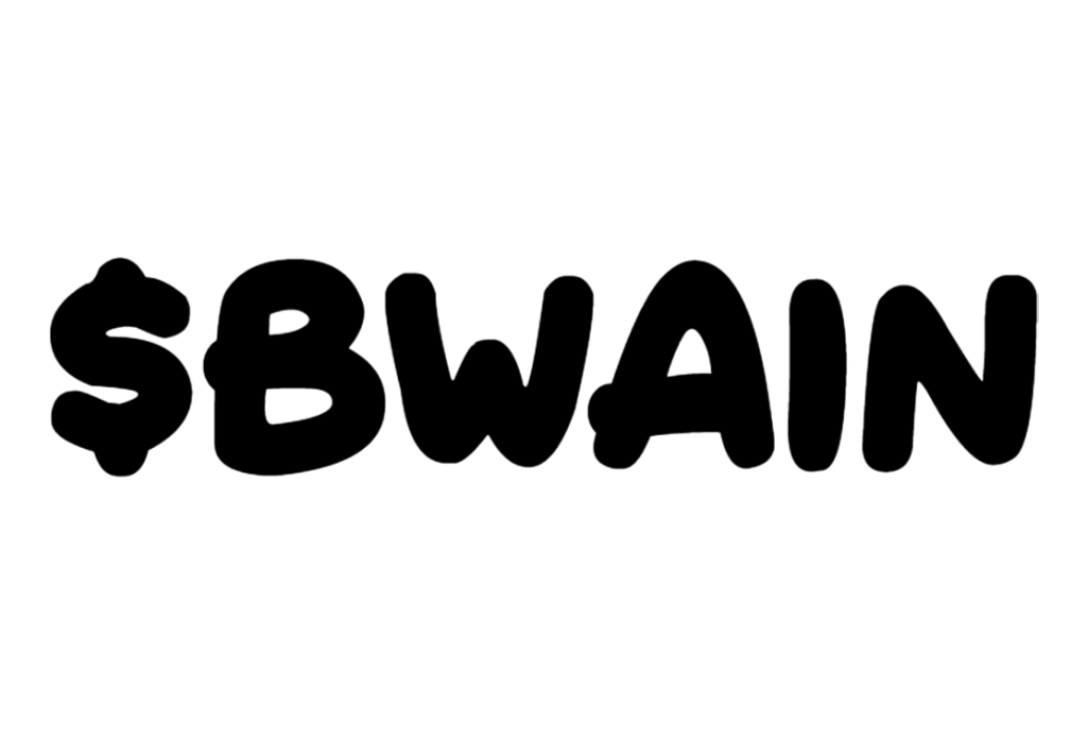
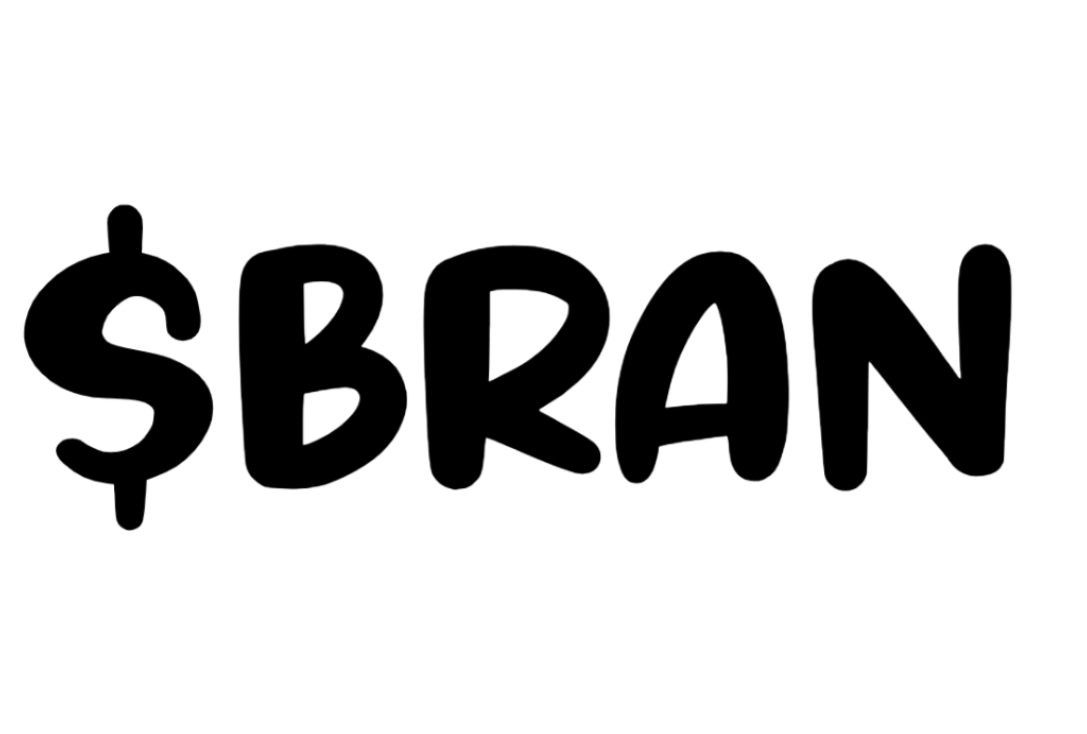
1

Changed region(s): [[0.0, 0.2698, 0.9715, 0.7193]]

diff --git a/index.html b/index.html
@@ -9,8 +9,8 @@
 <meta http-equiv="Expires" content="0" />
     <link rel="icon" href="./assets/logo1.png" type="image/png">
     <link rel="apple-touch-icon" href="./assets/logo1.png">
-    <title>BWAIN</title>
-    <meta name="description" content="BWAIN is a cheeky, sarcastic genius representing your inner thoughts on the Solana network." />
+    <title>BRAN</title>
+    <meta name="description" content="BRAN is a cheeky, sarcastic genius representing your inner thoughts on the Solana network." />
   
     <link rel="preconnect" href="https://fonts.googleapis.com">
     <link rel="preconnect" href="https://fonts.gstatic.com" crossorigin>
@@ -25,48 +25,48 @@
       <div class="ticker-wrapper">
         <div class="ticker">
             <div class="ticker-move">
-                <span class="text">5jjY...<span style="color:#ff7bd3; font-weight: bold; text-transform: uppercase;">jump</span></span>
-                <span class="text">5jjY...<span style="color:#ff7bd3; font-weight: bold; text-transform: uppercase;">jump</span></span>
-                <span class="text">5jjY...<span style="color:#ff7bd3; font-weight: bold; text-transform: uppercase;">jump</span></span>
-                <span class="text">5jjY...<span style="color:#ff7bd3; font-weight: bold; text-transform: uppercase;">jump</span></span>
-                <span class="text">5jjY...<span style="color:#ff7bd3; font-weight: bold; text-transform: uppercase;">jump</span></span>
-                <span class="text">5jjY...<span style="color:#ff7bd3; font-weight: bold; text-transform: uppercase;">jump</span></span>
-                <span class="text">5jjY...<span style="color:#ff7bd3; font-weight: bold; text-transform: uppercase;">jump</span></span>
-                <span class="text">5jjY...<span style="color:#ff7bd3; font-weight: bold; text-transform: uppercase;">jump</span></span>
-                <span class="text">5jjY...<span style="color:#ff7bd3; font-weight: bold; text-transform: uppercase;">jump</span></span>
-                <span class="text">5jjY...<span style="color:#ff7bd3; font-weight: bold; text-transform: uppercase;">jump</span></span>
-                <span class="text">5jjY...<span style="color:#ff7bd3; font-weight: bold; text-transform: uppercase;">jump</span></span>
-                <span class="text">5jjY...<span style="color:#ff7bd3; font-weight: bold; text-transform: uppercase;">jump</span></span>
-                <span class="text">5jjY...<span style="color:#ff7bd3; font-weight: bold; text-transform: uppercase;">jump</span></span>
-                <span class="text">5jjY...<span style="color:#ff7bd3; font-weight: bold; text-transform: uppercase;">jump</span></span>
-                <span class="text">5jjY...<span style="color:#ff7bd3; font-weight: bold; text-transform: uppercase;">jump</span></span>
-                <span class="text">5jjY...<span style="color:#ff7bd3; font-weight: bold; text-transform: uppercase;">jump</span></span>
-                <span class="text">5jjY...<span style="color:#ff7bd3; font-weight: bold; text-transform: uppercase;">jump</span></span>
-                <span class="text">5jjY...<span style="color:#ff7bd3; font-weight: bold; text-transform: uppercase;">jump</span></span>
-                <span class="text">5jjY...<span style="color:#ff7bd3; font-weight: bold; text-transform: uppercase;">jump</span></span>
-                <span class="text">5jjY...<span style="color:#ff7bd3; font-weight: bold; text-transform: uppercase;">jump</span></span>
+                <span class="text">WQa2...<span style="color:#ff7bd3; font-weight: bold; text-transform: uppercase;">Zump</span></span>
+                <span class="text">WQa2...<span style="color:#ff7bd3; font-weight: bold; text-transform: uppercase;">Zump</span></span>
+                <span class="text">WQa2...<span style="color:#ff7bd3; font-weight: bold; text-transform: uppercase;">Zump</span></span>
+                <span class="text">WQa2...<span style="color:#ff7bd3; font-weight: bold; text-transform: uppercase;">Zump</span></span>
+                <span class="text">WQa2...<span style="color:#ff7bd3; font-weight: bold; text-transform: uppercase;">Zump</span></span>
+                <span class="text">WQa2...<span style="color:#ff7bd3; font-weight: bold; text-transform: uppercase;">Zump</span></span>
+                <span class="text">WQa2...<span style="color:#ff7bd3; font-weight: bold; text-transform: uppercase;">Zump</span></span>
+                <span class="text">WQa2...<span style="color:#ff7bd3; font-weight: bold; text-transform: uppercase;">Zump</span></span>
+                <span class="text">WQa2...<span style="color:#ff7bd3; font-weight: bold; text-transform: uppercase;">Zump</span></span>
+                <span class="text">WQa2...<span style="color:#ff7bd3; font-weight: bold; text-transform: uppercase;">Zump</span></span>
+                <span class="text">WQa2...<span style="color:#ff7bd3; font-weight: bold; text-transform: uppercase;">Zump</span></span>
+                <span class="text">WQa2...<span style="color:#ff7bd3; font-weight: bold; text-transform: uppercase;">Zump</span></span>
+                <span class="text">WQa2...<span style="color:#ff7bd3; font-weight: bold; text-transform: uppercase;">Zump</span></span>
+                <span class="text">WQa2...<span style="color:#ff7bd3; font-weight: bold; text-transform: uppercase;">Zump</span></span>
+                <span class="text">WQa2...<span style="color:#ff7bd3; font-weight: bold; text-transform: uppercase;">Zump</span></span>
+                <span class="text">WQa2...<span style="color:#ff7bd3; font-weight: bold; text-transform: uppercase;">Zump</span></span>
+                <span class="text">WQa2...<span style="color:#ff7bd3; font-weight: bold; text-transform: uppercase;">Zump</span></span>
+                <span class="text">WQa2...<span style="color:#ff7bd3; font-weight: bold; text-transform: uppercase;">Zump</span></span>
+                <span class="text">WQa2...<span style="color:#ff7bd3; font-weight: bold; text-transform: uppercase;">Zump</span></span>
+                <span class="text">WQa2...<span style="color:#ff7bd3; font-weight: bold; text-transform: uppercase;">Zump</span></span>
             </div>
             <DIV class="ticker-move">
-                <span class="text">5jjY...<span style="color:#ff7bd3; font-weight: bold; text-transform: uppercase;">jump</span></span>
-                <span class="text">5jjY...<span style="color:#ff7bd3; font-weight: bold; text-transform: uppercase;">jump</span></span>
-                <span class="text">5jjY...<span style="color:#ff7bd3; font-weight: bold; text-transform: uppercase;">jump</span></span>
-                <span class="text">5jjY...<span style="color:#ff7bd3; font-weight: bold; text-transform: uppercase;">jump</span></span>
-                <span class="text">5jjY...<span style="color:#ff7bd3; font-weight: bold; text-transform: uppercase;">jump</span></span>
-                <span class="text">5jjY...<span style="color:#ff7bd3; font-weight: bold; text-transform: uppercase;">jump</span></span>
-                <span class="text">5jjY...<span style="color:#ff7bd3; font-weight: bold; text-transform: uppercase;">jump</span></span>
-                <span class="text">5jjY...<span style="color:#ff7bd3; font-weight: bold; text-transform: uppercase;">jump</span></span>
-                <span class="text">5jjY...<span style="color:#ff7bd3; font-weight: bold; text-transform: uppercase;">jump</span></span>
-                <span class="text">5jjY...<span style="color:#ff7bd3; font-weight: bold; text-transform: uppercase;">jump</span></span>
-                <span class="text">5jjY...<span style="color:#ff7bd3; font-weight: bold; text-transform: uppercase;">jump</span></span>
-                <span class="text">5jjY...<span style="color:#ff7bd3; font-weight: bold; text-transform: uppercase;">jump</span></span>
-                <span class="text">5jjY...<span style="color:#ff7bd3; font-weight: bold; text-transform: uppercase;">jump</span></span>
-                <span class="text">5jjY...<span style="color:#ff7bd3; font-weight: bold; text-transform: uppercase;">jump</span></span>
-                <span class="text">5jjY...<span style="color:#ff7bd3; font-weight: bold; text-transform: uppercase;">jump</span></span>
-                <span class="text">5jjY...<span style="color:#ff7bd3; font-weight: bold; text-transform: uppercase;">jump</span></span>
-                <span class="text">5jjY...<span style="color:#ff7bd3; font-weight: bold; text-transform: uppercase;">jump</span></span>
-                <span class="text">5jjY...<span style="color:#ff7bd3; font-weight: bold; text-transform: uppercase;">jump</span></span>
-                <span class="text">5jjY...<span style="color:#ff7bd3; font-weight: bold; text-transform: uppercase;">jump</span></span>
-                <span class="text">5jjY...<span style="color:#ff7bd3; font-weight: bold; text-transform: uppercase;">jump</span></span>
+                <span class="text">WQa2...<span style="color:#ff7bd3; font-weight: bold; text-transform: uppercase;">Zump</span></span>
+                <span class="text">WQa2...<span style="color:#ff7bd3; font-weight: bold; text-transform: uppercase;">Zump</span></span>
+                <span class="text">WQa2...<span style="color:#ff7bd3; font-weight: bold; text-transform: uppercase;">Zump</span></span>
+                <span class="text">WQa2...<span style="color:#ff7bd3; font-weight: bold; text-transform: uppercase;">Zump</span></span>
+                <span class="text">WQa2...<span style="color:#ff7bd3; font-weight: bold; text-transform: uppercase;">Zump</span></span>
+                <span class="text">WQa2...<span style="color:#ff7bd3; font-weight: bold; text-transform: uppercase;">Zump</span></span>
+                <span class="text">WQa2...<span style="color:#ff7bd3; font-weight: bold; text-transform: uppercase;">Zump</span></span>
+                <span class="text">WQa2...<span style="color:#ff7bd3; font-weight: bold; text-transform: uppercase;">Zump</span></span>
+                <span class="text">WQa2...<span style="color:#ff7bd3; font-weight: bold; text-transform: uppercase;">Zump</span></span>
+                <span class="text">WQa2...<span style="color:#ff7bd3; font-weight: bold; text-transform: uppercase;">Zump</span></span>
+                <span class="text">WQa2...<span style="color:#ff7bd3; font-weight: bold; text-transform: uppercase;">Zump</span></span>
+                <span class="text">WQa2...<span style="color:#ff7bd3; font-weight: bold; text-transform: uppercase;">Zump</span></span>
+                <span class="text">WQa2...<span style="color:#ff7bd3; font-weight: bold; text-transform: uppercase;">Zump</span></span>
+                <span class="text">WQa2...<span style="color:#ff7bd3; font-weight: bold; text-transform: uppercase;">Zump</span></span>
+                <span class="text">WQa2...<span style="color:#ff7bd3; font-weight: bold; text-transform: uppercase;">Zump</span></span>
+                <span class="text">WQa2...<span style="color:#ff7bd3; font-weight: bold; text-transform: uppercase;">Zump</span></span>
+                <span class="text">WQa2...<span style="color:#ff7bd3; font-weight: bold; text-transform: uppercase;">Zump</span></span>
+                <span class="text">WQa2...<span style="color:#ff7bd3; font-weight: bold; text-transform: uppercase;">Zump</span></span>
+                <span class="text">WQa2...<span style="color:#ff7bd3; font-weight: bold; text-transform: uppercase;">Zump</span></span>
+                <span class="text">WQa2...<span style="color:#ff7bd3; font-weight: bold; text-transform: uppercase;">Zump</span></span>
             </div>
         </div>
       </div>
@@ -91,22 +91,22 @@
       <div class="social-links-and-ca-wrapper">
         <div class="social-links-wrapper">
 
-          <a class="social-link"  href="https://x.com/bwainsol" target="_blank">
+          <a class="social-link"  href="https://x.com/bransolart" target="_blank">
             <img class="social-img" src="./assets/social/x.svg"/>
           </a>
 
-          <a class="social-link"  href="https://t.me/bwainsol" target="_blank">
+          <a class="social-link"  href="https://t.me/bransolart" target="_blank">
             <img class="social-img" src="./assets/social/telegram.svg"/>
           </a>
           <a class="social-link"  href="#" target="_blank">
             <img class="social-img" src="./assets/DEXTools Isotype_black (alternative color).png"/>
           </a>
-            <a class="social-link"  href="https://pump.fun/5jjYZhjgRndm8TBszvxgpEDR8o74aZxNB5ThEa6jump" target="_blank">
+            <a class="social-link"  href="https://pump.fun/WQa249FC9DFj799gmainYNVhVntc2uvpq8AYy9QZump" target="_blank">
             <img style="filter: brightness(0%);" class="social-img" src="./assets/pump.png"/>
           </a>
         </div>
         <div class="ca">
-          5jjYZhjgRndm8TBszvxgpEDR8o74aZxNB5ThEa6jump
+          WQa249FC9DFj799gmainYNVhVntc2uvpq8AYy9QZump
         </div>
       </div>
 
@@ -117,8 +117,8 @@
           <img class="brain-text-logo shaker" alt="brain-text-logo" src="./assets/brain_header.png" />
         </div>
 
-        <span class="brain-text fade-in-element">BWAIN is a cheeky, sarcastic genius representing your inner thoughts on the Solana network.</span>
-        <a href="https://pump.fun/5jjYZhjgRndm8TBszvxgpEDR8o74aZxNB5ThEa6jump" target="_blank" class="buy-brain-button"><img src="./assets/buy_brain_button.png" /></a>
+        <span class="brain-text fade-in-element">BRAN is a cheeky, sarcastic genius representing your inner thoughts on the Solana network.</span>
+        <a href="https://pump.fun/WQa249FC9DFj799gmainYNVhVntc2uvpq8AYy9QZump" target="_blank" class="buy-brain-button"><img src="./assets/buy_brain_button.png" /></a>
       </div>
     </section>
     <section class="why-brain-wrapper">
@@ -126,10 +126,10 @@
         <div class="text-warpper">
           <img class="section-title why-brain-title fade-in-element" src="./assets/why_brain.png" />
           <br>
-            Dis smol BWAIN sez: "BUY NOW!"</br>
-            Dis big BWAIN sez: "MOON SOON!</br>
+            Dis smol BRAN sez: "BUY NOW!"</br>
+            Dis big BRAN sez: "MOON SOON!</br>
           </br>
-            Why $BWAIN Coin?</br>
+            Why $BRAN Coin?</br>
           </br>
             MOON! We go zoom zoom 🚀</br>
             DIAMOND HANDS! No paper hands, no weak sauce 💎✋</br>
@@ -150,48 +150,48 @@
       <div class="ticker-wrapper dark">
         <div class="ticker">
             <div class="ticker-move">
-                <span class="text">$BWAIN</span>
-                <span class="text">$BWAIN</span>
-                <span class="text">$BWAIN</span>
-                <span class="text">$BWAIN</span>
-                <span class="text">$BWAIN</span>
-                <span class="text">$BWAIN</span>
-                <span class="text">$BWAIN</span>
-                <span class="text">$BWAIN</span>
-                <span class="text">$BWAIN</span>
-                <span class="text">$BWAIN</span>
-                <span class="text">$BWAIN</span>
-                <span class="text">$BWAIN</span>
-                <span class="text">$BWAIN</span>
-                <span class="text">$BWAIN</span>
-                <span class="text">$BWAIN</span>
-                <span class="text">$BWAIN</span>
-                <span class="text">$BWAIN</span>
-                <span class="text">$BWAIN</span>
-                <span class="text">$BWAIN</span>
-                <span class="text">$BWAIN</span>
+                <span class="text">$BRAN</span>
+                <span class="text">$BRAN</span>
+                <span class="text">$BRAN</span>
+                <span class="text">$BRAN</span>
+                <span class="text">$BRAN</span>
+                <span class="text">$BRAN</span>
+                <span class="text">$BRAN</span>
+                <span class="text">$BRAN</span>
+                <span class="text">$BRAN</span>
+                <span class="text">$BRAN</span>
+                <span class="text">$BRAN</span>
+                <span class="text">$BRAN</span>
+                <span class="text">$BRAN</span>
+                <span class="text">$BRAN</span>
+                <span class="text">$BRAN</span>
+                <span class="text">$BRAN</span>
+                <span class="text">$BRAN</span>
+                <span class="text">$BRAN</span>
+                <span class="text">$BRAN</span>
+                <span class="text">$BRAN</span>
             </div>
             <div class="ticker-move">
-                <span class="text">$BWAIN</span>
-                <span class="text">$BWAIN</span>
-                <span class="text">$BWAIN</span>
-                <span class="text">$BWAIN</span>
-                <span class="text">$BWAIN</span>
-                <span class="text">$BWAIN</span>
-                <span class="text">$BWAIN</span>
-                <span class="text">$BWAIN</span>
-                <span class="text">$BWAIN</span>
-                <span class="text">$BWAIN</span>
-                <span class="text">$BWAIN</span>
-                <span class="text">$BWAIN</span>
-                <span class="text">$BWAIN</span>
-                <span class="text">$BWAIN</span>
-                <span class="text">$BWAIN</span>
-                <span class="text">$BWAIN</span>
-                <span class="text">$BWAIN</span>
-                <span class="text">$BWAIN</span>
-                <span class="text">$BWAIN</span>
-                <span class="text">$BWAIN</span>
+                <span class="text">$BRAN</span>
+                <span class="text">$BRAN</span>
+                <span class="text">$BRAN</span>
+                <span class="text">$BRAN</span>
+                <span class="text">$BRAN</span>
+                <span class="text">$BRAN</span>
+                <span class="text">$BRAN</span>
+                <span class="text">$BRAN</span>
+                <span class="text">$BRAN</span>
+                <span class="text">$BRAN</span>
+                <span class="text">$BRAN</span>
+                <span class="text">$BRAN</span>
+                <span class="text">$BRAN</span>
+                <span class="text">$BRAN</span>
+                <span class="text">$BRAN</span>
+                <span class="text">$BRAN</span>
+                <span class="text">$BRAN</span>
+                <span class="text">$BRAN</span>
+                <span class="text">$BRAN</span>
+                <span class="text">$BRAN</span>
             </div>
         </div>
       </div>
@@ -232,13 +232,13 @@
 
         <div class="step">
           <div class="step-title-and-text">
-            <h3>3. SWAP $SOL FOR $BWAIN</h3>
-            <p>Click on the button below, connect your wallet, and press SWAP! BOOM! <strong>You are a $BWAIN holder!</strong></p>
+            <h3>3. SWAP $SOL FOR $BRAN</h3>
+            <p>Click on the button below, connect your wallet, and press SWAP! BOOM! <strong>You are a $BRAN holder!</strong></p>
             <p></p>
-              <a href="https://pump.fun/5jjYZhjgRndm8TBszvxgpEDR8o74aZxNB5ThEa6jump" target="_blank" class="buy-brain-instep">Buy $BWAIN</a>
+              <a href="https://pump.fun/WQa249FC9DFj799gmainYNVhVntc2uvpq8AYy9QZump" target="_blank" class="buy-brain-instep">Buy $BRAN</a>
           </div>
 
-          <img src="./assets/c.png" alt="Swap $SOL for $BWAIN">
+          <img src="./assets/c.png" alt="Swap $SOL for $BRAN">
         </div>
     </div>
     </section>
@@ -248,11 +248,11 @@
 
       <div class="social-links-wrapper-bottom">
 
-        <a class="social-link" href="https://x.com/bwainsol" target="_blank">
+        <a class="social-link" href="https://x.com/bransolart" target="_blank">
           <img class="social-img" src="./assets/social/x-w.svg"/>
         </a>
 
-        <a class="social-link" href="https://t.me/bwainsol" target="_blank">
+        <a class="social-link" href="https://t.me/bransolart" target="_blank">
           <img class="social-img" src="./assets/social/telegram-w.svg"/>
         </a>
       </div>
@@ -268,7 +268,7 @@
     </section>
     <div class="footer">
       <span class="disclaimer">
-        Legal Disclaimer: $BWAIN is a meme coin with no value or financial return. $BWAIN is purely for entertainment. By purchasing $BWAIN, you acknowledge this disclaimer.
+        Legal Disclaimer: $BRAN is a meme coin with no value or financial return. $BRAN is purely for entertainment. By purchasing $BRAN, you acknowledge this disclaimer.
       </span>
     </div>
     <script type="text/javascript" src="./script.js?v=1.0.1"></script>
